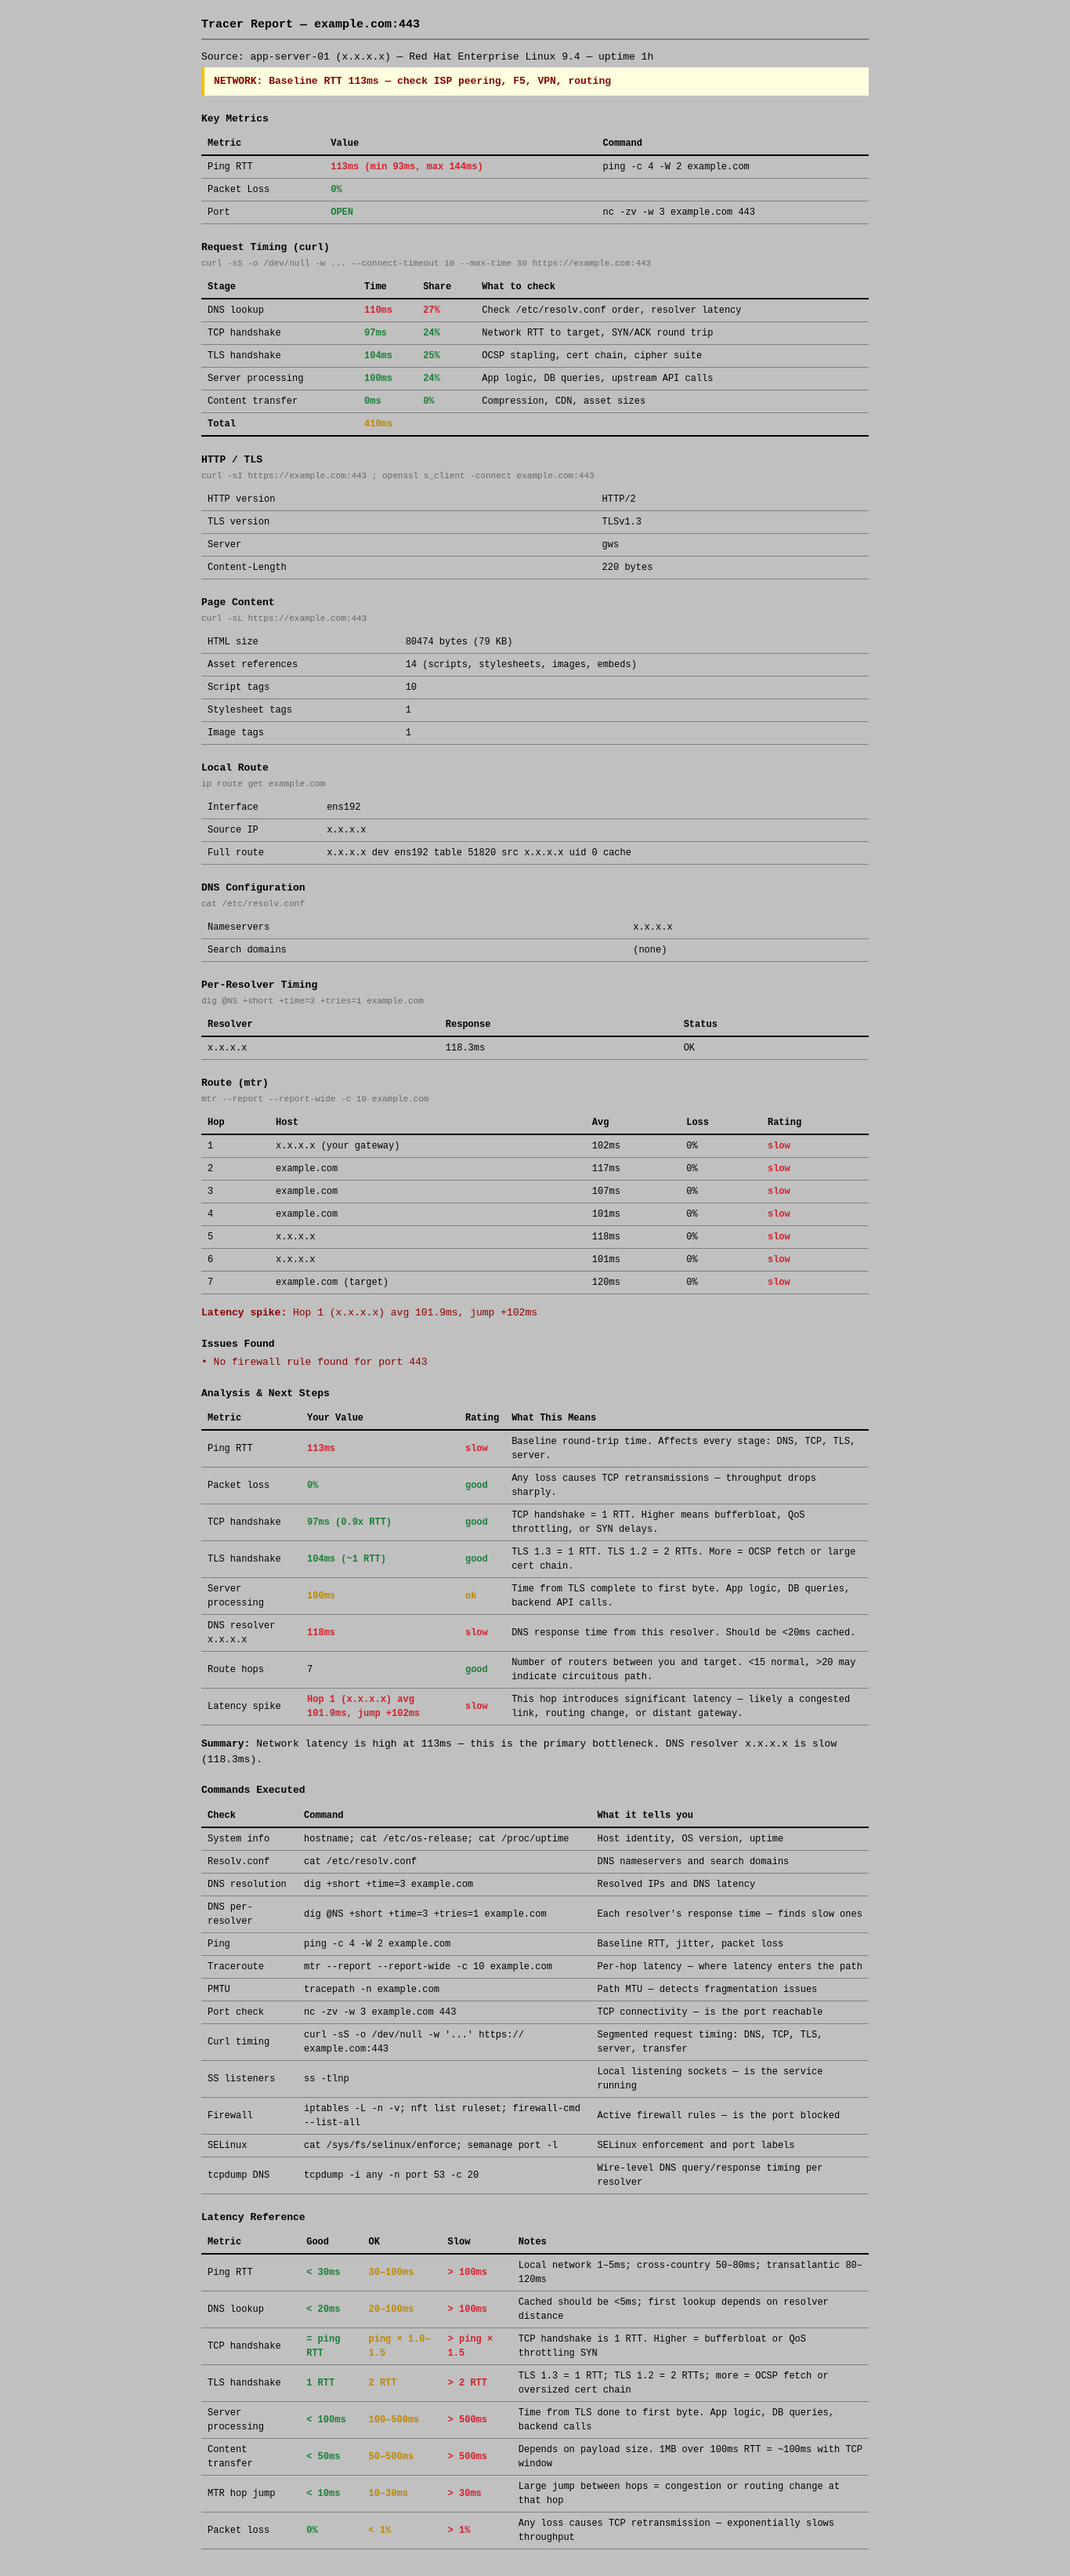
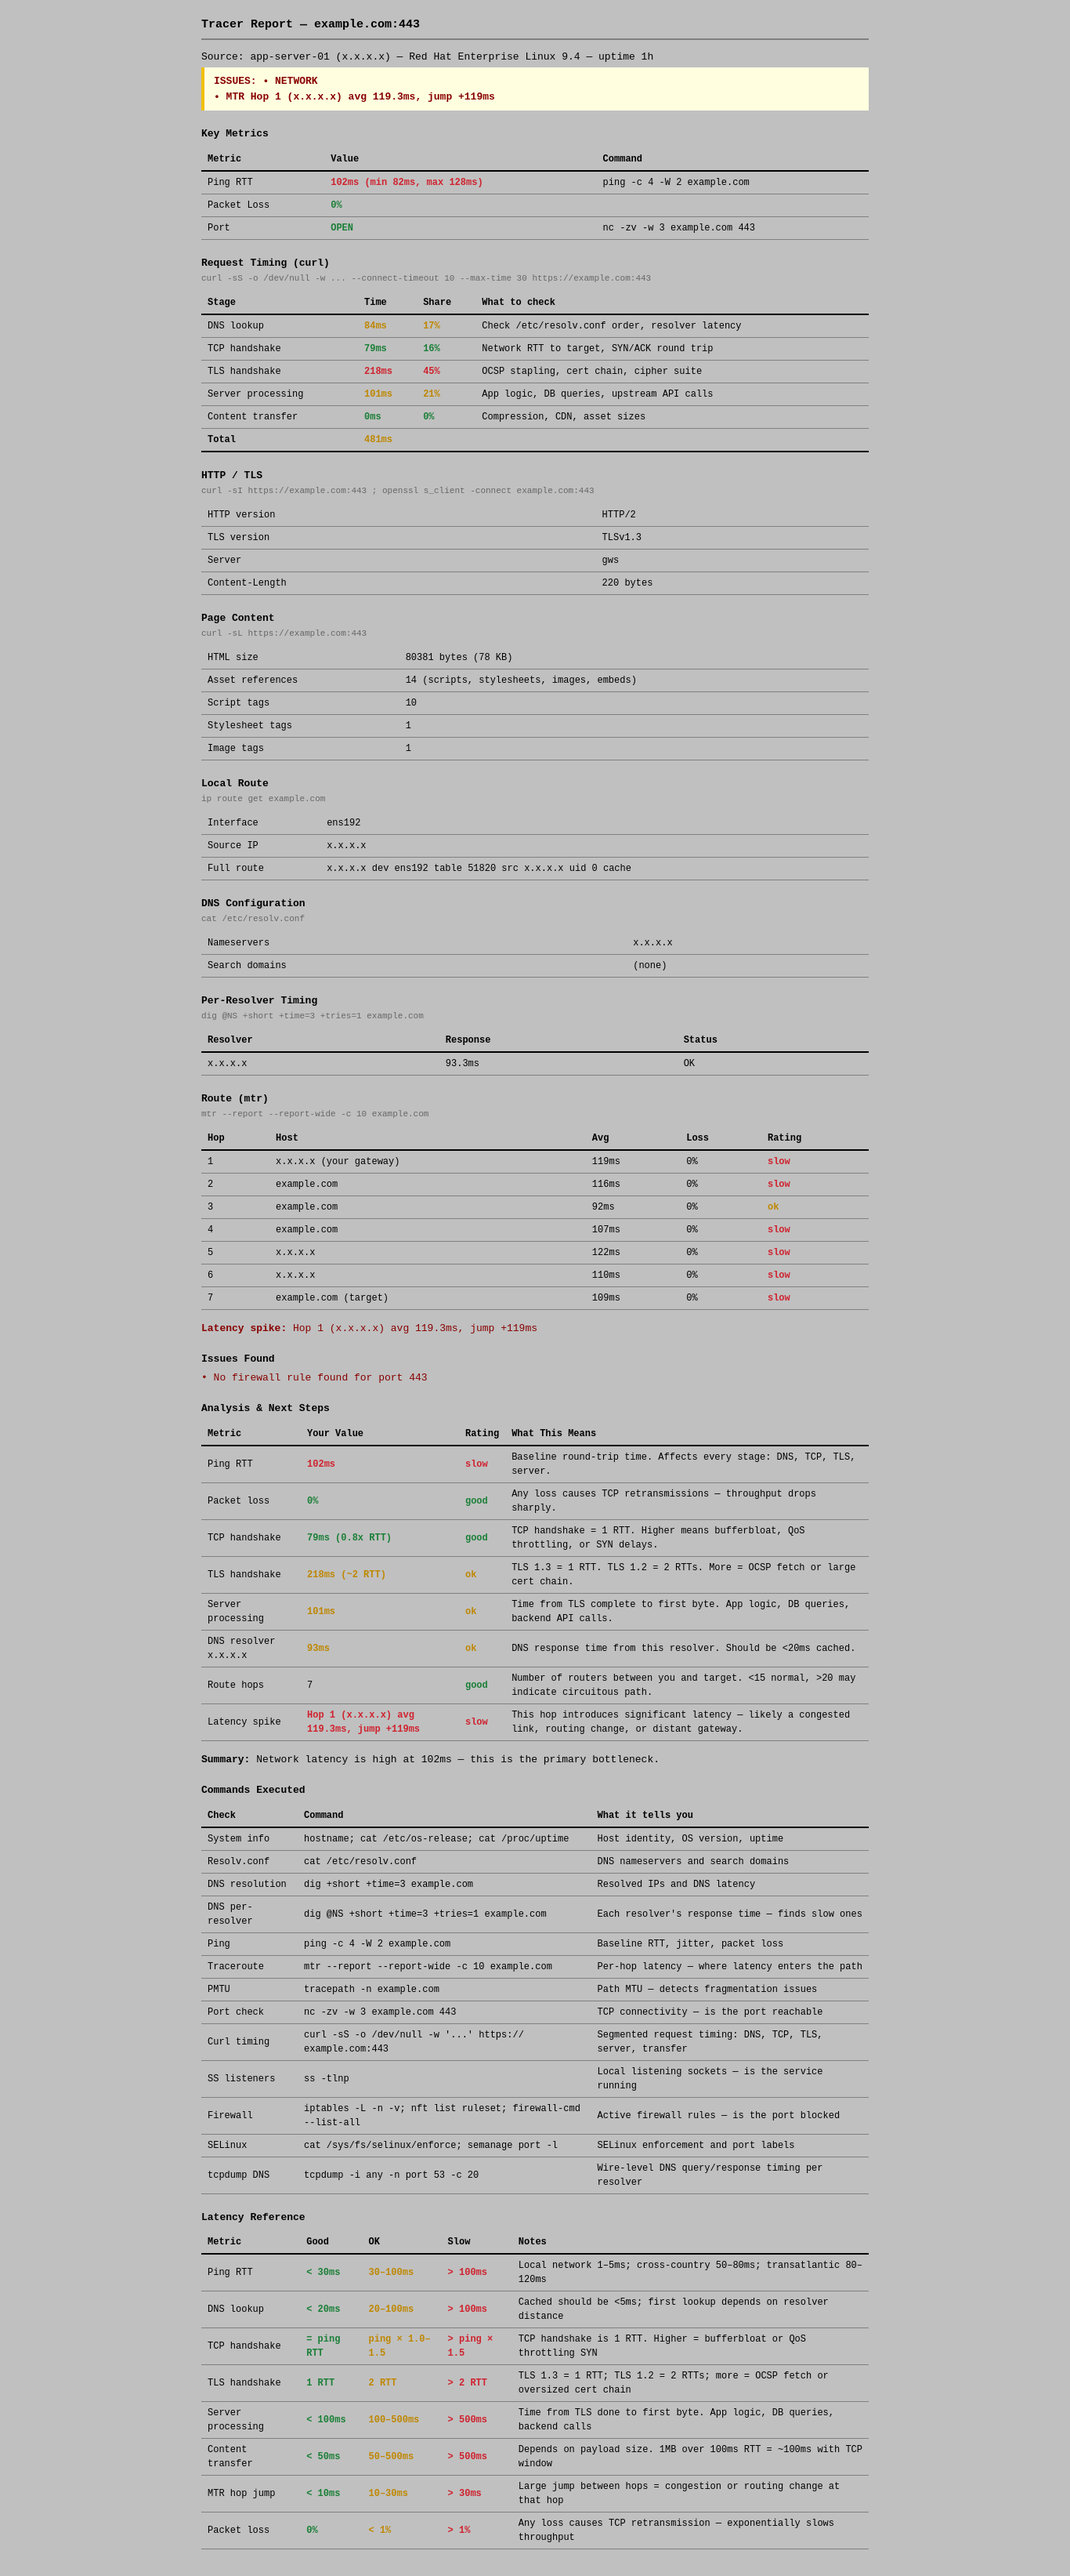
Update 2026-06-12

diff --git a/render_report.py b/render_report.py
@@ -159,27 +159,37 @@ def verdict(d):
     c_transfer = d.get("curl_transfer_ms") or 0
     p_avg = d.get("ping_avg_ms") or 0
 
-    if c_server > 2000:
-        return f"SERVER: Server processing takes {c_server:.0f}ms — check app logic, DB queries, backend API calls"
-    if c_tls > 500:
-        return f"TLS: TLS handshake takes {c_tls:.0f}ms — check OCSP stapling, cipher negotiation, cert chain size"
-    if c_dns > 200:
-        return f"DNS: DNS resolution takes {c_dns:.0f}ms — check /etc/resolv.conf, resolver latency"
+    issues = []
     slowest = 0
     slow_ns = ""
     for r in d.get("resolver_results", []):
         if r.get("elapsed_ms", 0) > slowest:
             slowest = r["elapsed_ms"]
             slow_ns = r.get("resolver", "?")
-    if slowest > 200:
-        return f"DNS_RESOLVER: Resolver {slow_ns} takes {slowest:.0f}ms — remove or reorder in /etc/resolv.conf"
     if p_avg > 100:
-        return f"NETWORK: Baseline RTT {p_avg:.0f}ms — check ISP peering, F5, VPN, routing"
+        issues.append("NETWORK")
+    if c_server > 2000:
+        issues.append("SERVER")
+    if c_tls > 500:
+        issues.append("TLS")
+    if c_dns > 200:
+        issues.append("DNS")
+    if slowest > 200:
+        issues.append(f"DNS resolver {slow_ns} at {slowest}ms")
+    if slowest > 100:
+        issues.append(f"DNS resolver {slow_ns} is {slowest:.0f}ms — slow")
+    if d.get("port_status") == "FAIL":
+        issues.append(f"Port {d.get('_port','')} is CLOSED")
     if d.get("_mtr_spikes"):
-        count = d["_mtr_spikes"].count("<br>") + 1
-        return f"NETWORK_HOP: {count} latency spike{'s' if count > 1 else ''} detected<br>{d['_mtr_spikes']}"
-    if c_transfer > 2000:
-        return f"PAYLOAD: Content transfer takes {c_transfer:.0f}ms — enable compression, use CDN, reduce asset size"
+        for line in d["_mtr_spikes"].split("<br>"):
+            issues.append(f"MTR {line}")
+
+    if issues:
+        if len(issues) == 1:
+            detail = issues[0]
+        else:
+            detail = "<br>".join(f"• {i}" for i in issues)
+        return f"ISSUES: {detail}"
     return "OK: No bottleneck detected — all metrics within normal ranges"
 
 
